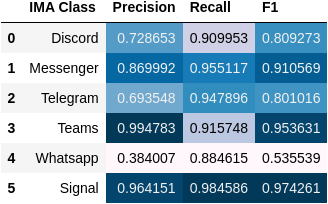
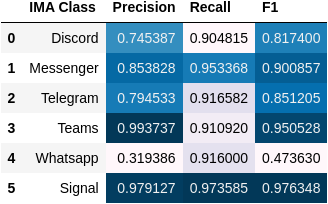
update

diff --git a/ensemble_pipe/ensemble.py b/ensemble_pipe/ensemble.py
@@ -15,26 +15,25 @@ def split_dataset(comb):
     y_test = xy_test['label']
     return x_train, y_train, x_test, y_test
 
-def get_both_models():
+def get_both_models(name):
     print("Building the three class model")
     #model for the three classes
     subset_comb = import_datasets(three_apps)
     subset_comb = choose_features(subset_comb)
-    subset_rf = get_trained_model(subset_comb)
+    subset_rf = get_trained_model(subset_comb, name) 
 
     print("Building the all class model")
     #initial model for all the classes
     comb = import_datasets(all_apps)
     comb = choose_features(comb)
-    all_rf = get_trained_model(comb)
+    all_rf = get_trained_model(comb, name)
 
     return subset_rf, all_rf, comb
 
 def get_confidence_and_pipe_based():
     name = sys.argv[1]
     print("Starting confidence and pipe based ensemble")
-    subset_rf, all_rf, comb = get_both_models()
-
+    subset_rf, all_rf, comb = get_both_models(name)
     #get the training and testing dataset for the main problem (all classes)
     x_train, y_train, x_test, y_test = split_dataset(comb)
 
@@ -62,7 +61,7 @@ def get_confidence_and_pipe_based():
 def get_confidence_based():
     name = sys.argv[1]
     print("Starting confidence-based ensemble")
-    subset_rf, all_rf, comb = get_both_models()
+    subset_rf, all_rf, comb = get_both_models(name)
 
     #get the training and testing dataset for the main problem (all classes)
     x_train, y_train, x_test, y_test = split_dataset(comb)
@@ -90,7 +89,7 @@ def get_confidence_based():
 def get_pipe():
     name = sys.argv[1]
     print("Starting pipe-based ensemble")
-    subset_rf, all_rf, comb = get_both_models()
+    subset_rf, all_rf, comb = get_both_models(name)
     #get the training and testing dataset for the main problem (all classes)
     x_train, y_train, x_test, y_test = split_dataset(comb)
 
@@ -107,7 +106,6 @@ def get_pipe():
     x_to_reclassify = x_test.iloc[indexes_to_replace]
     y_true_to_reclassify = y_test.iloc[indexes_to_replace]
     new_classification = subset_rf.predict(x_to_reclassify)
-    print_scores(y_true_to_reclassify, new_classification, all_apps_fullname, name+"_only_reclassified")
     for i in range(len(indexes_to_replace)):
         cur_index = indexes_to_replace[i]
         new_y = new_classification[i]

diff --git a/ensemble_pipe/functions.py b/ensemble_pipe/functions.py
@@ -30,7 +30,7 @@ def choose_features(comb):
     comb = shuffle(comb)
     return comb
 
-def get_trained_model(comb):
+def get_trained_model(comb, name):
     clf = RandomForestClassifier()
     xy_train = comb.groupby("label").sample(n=total_training, random_state=1)
     x_train = xy_train.drop("label", axis=1)
@@ -40,6 +40,8 @@ def get_trained_model(comb):
     y_test = xy_test['label']
     clf.fit(x_train, y_train)
     y_predic = clf.predict(x_test)
+    if clf.n_classes_ == 3:
+        print_scores(y_test, y_predic, three_apps_fullname, name+"_3class")
     return clf
 
 def print_scores(y_test, y_predic, apps_fullname, name):
